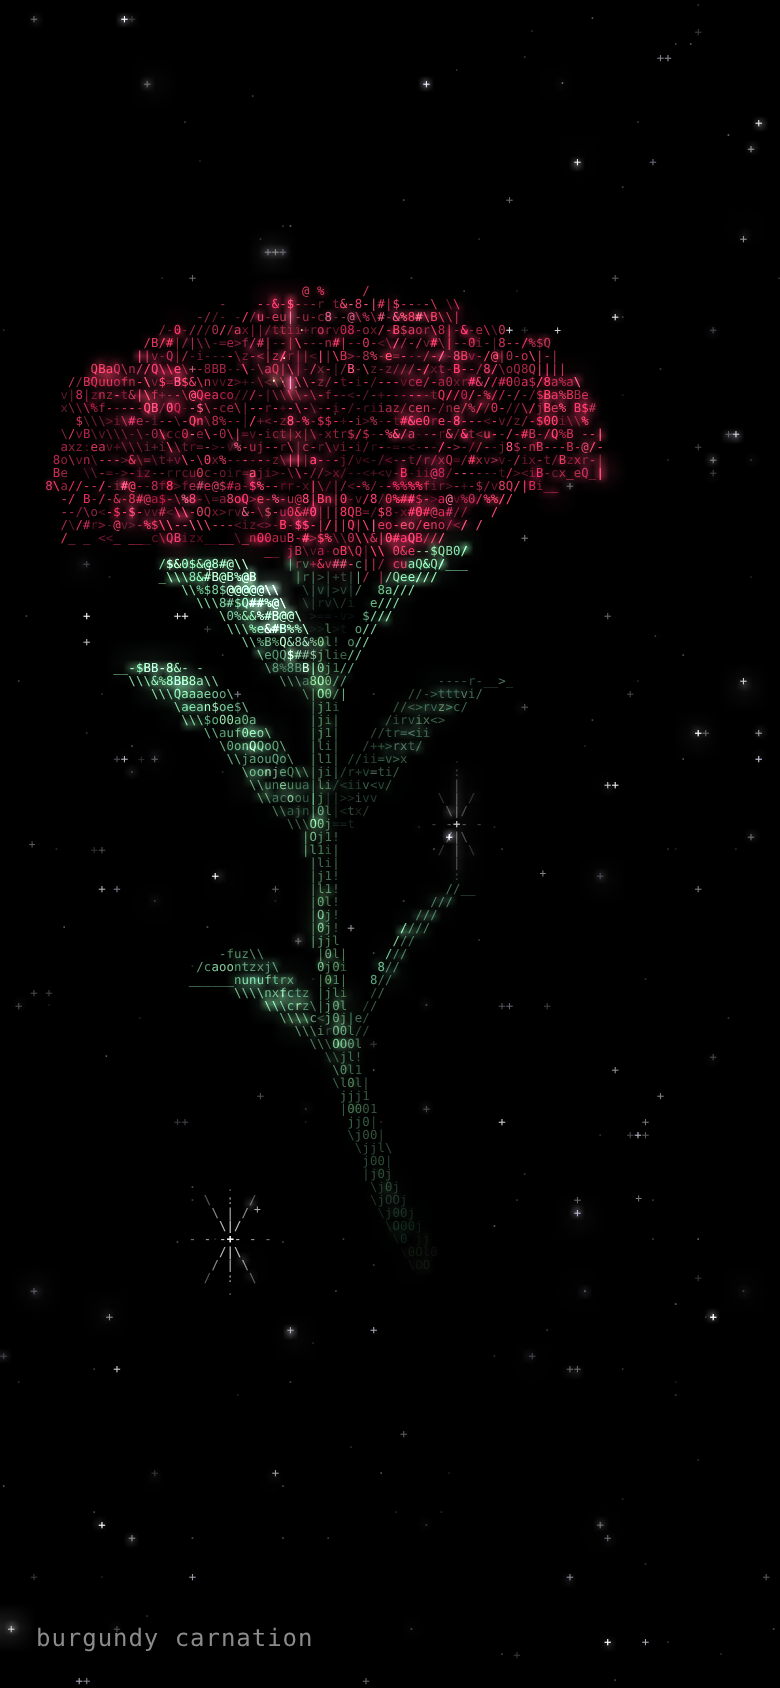
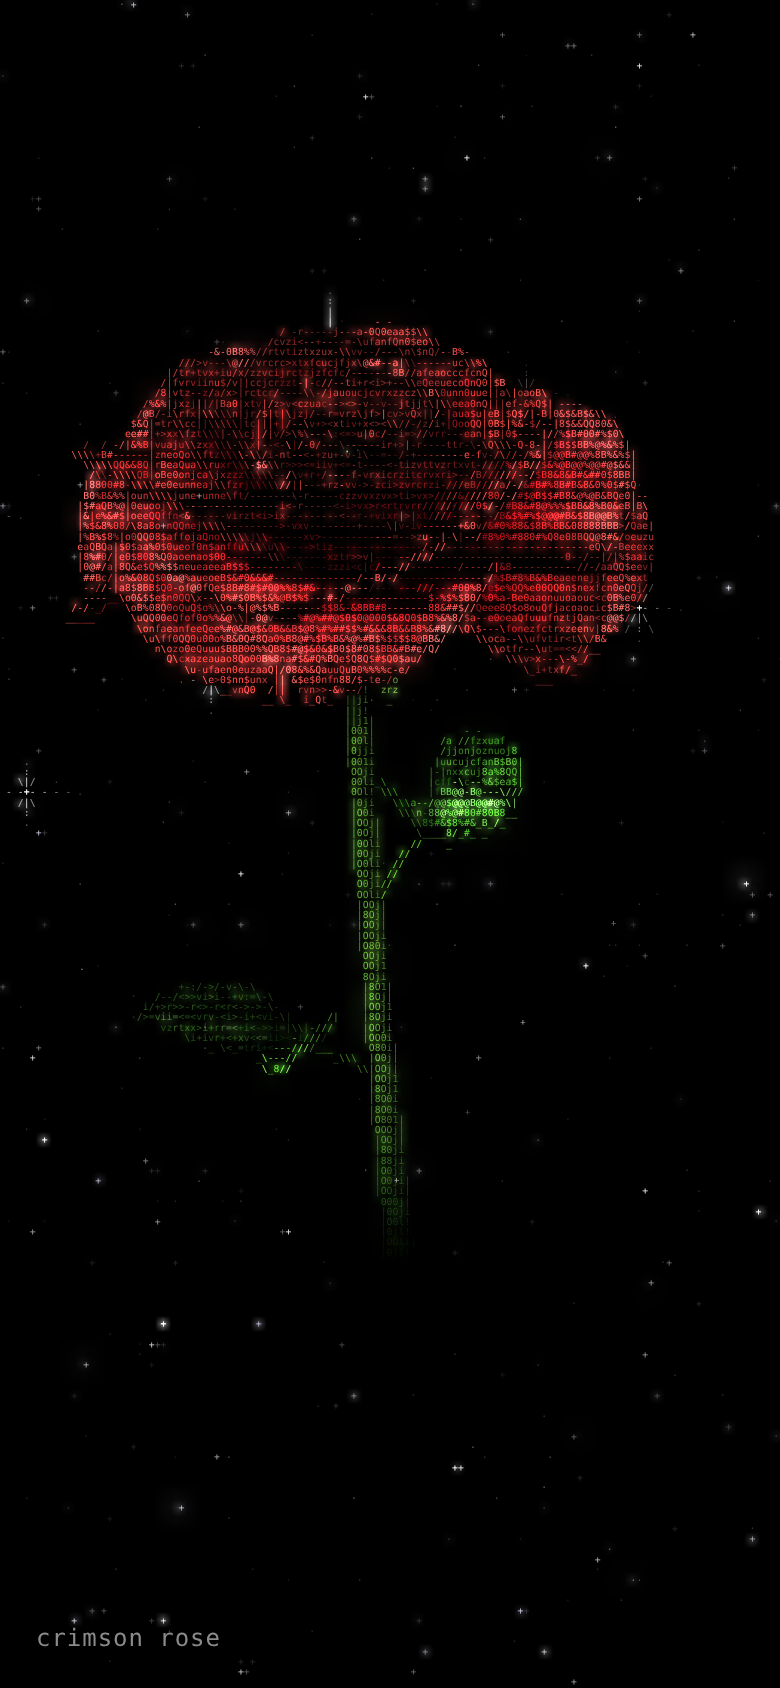
HD grid, petal overlap outlines and crevice shading, green-only stems and leaves, more flares, faster star flashes

diff --git a/bloom.js b/bloom.js
@@ -346,16 +346,11 @@ function makeGenome(seed) {
   }
 
   // greens
-  const gh = type === 'lotus' ? R.range(140, 160) : type === 'carnation' || type === 'iris' ? R.range(140, 165) : (type === 'tulip' ? R.range(105, 125) : R.range(95, 135));
-  const gs = type === 'tulip' || type === 'carnation' ? .55 : type === 'iris' ? .7 : type === 'poppy' ? .75 : 1;
+  const gh = R.range(105, 128), gs = 1;
   G.green = {
     dark: hsv(gh + 5, .85 * gs, .26), body: hsv(gh, .78 * gs, .68), light: hsv(gh - 12, .55 * gs, .95),
     stem: hsv(gh - 8, .72 * gs, .74), vein: hsv(gh - 15, .45 * gs, 1),
   };
-  if (type === 'magnolia' || (type === 'hibiscus' && R.chance(.6))) {
-    const bh = R.range(18, 30);
-    G.stemPal = { dark: hsv(bh, .6, .2), stem: hsv(bh, .45, .45), light: hsv(bh + 8, .3, .65) };
-  }
   G.sepalPal = { base: G.green.dark, body: G.green.body, tip: G.green.light, edge: G.green.light, edgeAmt: .2, edgeStart: .8, spot: G.green.dark };
 
   // head orientation and stem
@@ -371,14 +366,6 @@ function makeGenome(seed) {
     P0: [0, 0, 0], P1: [R.range(-.3, .3), H * R.range(.25, .45), R.range(-.2, .2)], P2: sub(P3, mul(up, H * R.range(.22, .36))), P3,
   };
   G.pivot = [P3[0] * .5, 0, P3[2] * .5];
-  if (type === 'rose') {
-    const n = R.int(4, 8);
-    for (let i = 0; i < n; i++) G.thorns.push({ u: R.range(.1, .85), a: R.range(0, TAU), len: R.range(.04, .07) });
-  }
-  if (type === 'sunflower' || type === 'poppy') { // fine hairs along the stem
-    const n = type === 'sunflower' ? 70 : 50;
-    for (let i = 0; i < n; i++) G.thorns.push({ u: R.range(.05, .97), a: R.range(0, TAU), len: R.range(.012, .025), col: mixc(G.green.light, [.8, .85, .75], .5) });
-  }
   if (type === 'carnation') { // swollen nodes
     G.nodes = [R.range(.22, .3), R.range(.5, .58), R.range(.76, .82)];
   }
@@ -498,7 +485,7 @@ function push(x, y, z, nx, ny, nz, r, g, b, tx, ty, tz, order, edge, kind, h, si
   NP++;
 }
 
-const GMAX = 72 * 52;
+const GMAX = 100 * 72;
 const GP = new Float32Array(GMAX * 3), GC = new Float32Array(GMAX * 3), GO = new Float32Array(GMAX);
 const GK = new Uint8Array(GMAX), GN = new Float32Array(GMAX * 3), GT = new Float32Array(GMAX * 3);
 
@@ -549,15 +536,15 @@ function emitCurve(fn, n, color, o0, o1, kind, id, gloss = .2) {
 }
 
 // ---------------------------------------------------------------- petals
-const SR = new Float32Array(96), SY = new Float32Array(96), SPh = new Float32Array(96);
+const SR = new Float32Array(112), SY = new Float32Array(112), SPh = new Float32Array(112);
 // per-column scratch for the petal builder
-const CV = new Float32Array(64), CAV = new Float32Array(64), CNOTCH = new Float32Array(64), CFR = new Float32Array(64);
-const CRS = new Float32Array(64), CRC = new Float32Array(64), CVEIN = new Float32Array(64), CSTS = new Float32Array(64), CSTC = new Float32Array(64);
-const CBL = new Float32Array(64), CBR = new Float32Array(64), CCS = new Float32Array(64), CCC = new Float32Array(64);
+const CV = new Float32Array(80), CAV = new Float32Array(80), CNOTCH = new Float32Array(80), CFR = new Float32Array(80);
+const CRS = new Float32Array(80), CRC = new Float32Array(80), CVEIN = new Float32Array(80), CSTS = new Float32Array(80), CSTC = new Float32Array(80);
+const CBL = new Float32Array(80), CBR = new Float32Array(80), CCS = new Float32Array(80), CCC = new Float32Array(80);
 function emitPetal(P, open, theta, M, T, pal, orderBase, orderSpan, headH, id, dens, lenMul) {
   const len = P.len * lenMul, W = P.W * lenMul;
-  const nu = clamp(Math.ceil(len * dens * 1.45) + 4, 6, 70) | 0;
-  let nv = clamp(Math.ceil(2 * W * dens * 1.35) + 3, 5, 51) | 0; if (nv % 2 === 0) nv++;
+  const nu = clamp(Math.ceil(len * dens * 1.5) + 4, 6, 96) | 0;
+  let nv = clamp(Math.ceil(2 * W * dens * 1.4) + 3, 5, 71) | 0; if (nv % 2 === 0) nv++;
   const ds = len / (nu - 1);
   let r = P.r0, y = P.y0;
   for (let i = 0; i < nu; i++) {
@@ -571,7 +558,7 @@ function emitPetal(P, open, theta, M, T, pal, orderBase, orderSpan, headH, id, d
   const ct = Math.cos(theta), st = Math.sin(theta);
   if (P.pal) pal = P.pal;
   const { base, body, tip, edge, edgeAmt, edgeStart, spot } = pal;
-  const sph = hash1(id * 3 + 1) * 6;
+  const sph = hash1(id * 3 + 1) * 6, tone = .9 + .2 * hash1(id * 5 + 2);
   const reshape = P.notch > 0 || P.fringe > 0;
   const ruffleK = P.ruffle * W, crinkK = P.crinkle * W * .045;
   const stripe = pal.stripe, blotch = P.blotch ? pal.blotch : null, beardC = P.beard ? P.beardC : null;
@@ -653,6 +640,7 @@ function emitPetal(P, open, theta, M, T, pal, orderBase, orderSpan, headH, id, d
       if (P.spots && u > .12 && u < .62 && av < .75 && hash1(id * 131 + i * 977 + j * 31) < .09 * P.spots) {
         cr = spot[0]; cg = spot[1]; cb = spot[2]; mm = 1;
       } else if (!kind && u > .35 && hash1(id * 53 + i * 613 + j * 7) < .0012) kind = 3; // dew drop
+      mm *= tone;
       GC[k] = cr * mm; GC[k + 1] = cg * mm; GC[k + 2] = cb * mm;
       const oy = ly / headH;
       GO[m] = orderBase + orderSpan * (oy < 0 ? 0 : oy > 1 ? 1 : oy);
@@ -723,8 +711,8 @@ function emitBlade(origin, dOut, len, W, elev, droop, fold, serr, teeth, shape, 
   const sc = lerp(.3, 1, open);
   len *= sc; W *= sc * lerp(.4, 1, open);
   fold = lerp(1.6, fold, open);
-  const nu = clamp(Math.ceil(len * dens * 1.3) + 4, 6, 64) | 0;
-  let nv = clamp(Math.ceil(2 * W * dens * 1.2) + 3, 5, 48) | 0; if (nv % 2 === 0) nv++;
+  const nu = clamp(Math.ceil(len * dens * 1.35) + 4, 6, 96) | 0;
+  let nv = clamp(Math.ceil(2 * W * dens * 1.25) + 3, 5, 71) | 0; if (nv % 2 === 0) nv++;
   const up = [0, 1, 0], lat = norm([dOut[2], 0, -dOut[0]]);
   const ds = len / (nu - 1);
   let p = origin.slice(), m = 0;
@@ -932,7 +920,7 @@ function makeSky(seed) {
     if (c < 0 || r < 0 || c >= cols || r >= rows) return;
     const id = r * cols + c; if (used.has(id)) return; used.add(id);
     stars.push({ c, r, k, a: k === 0 ? R.range(.18, .4) : k === 1 ? R.range(.5, .9) : 1,
-      sp: R.range(.9, 4.2), ph: R.range(0, TAU), cool: R.range(0, 1) });
+      sp: k === 2 ? R.range(.9, 4.2) : R.range(3, 7.5), ph: R.range(0, TAU), cool: R.range(0, 1) });
   };
   const nFaint = Math.round(n * .011), nPlus = Math.round(n * .0055), nBright = Math.round(n * .0022);
   for (let i = 0; i < nFaint; i++) put(R.int(0, cols - 1), R.int(0, rows - 1), 0);
@@ -960,6 +948,7 @@ const ANTH = '@0o';
 const STEMR = ':;!i1lj0O8%Q$8B';
 const BEARD = "\";:'^~,";
 const PITCH = .2;
+const CONTOUR = .07;
 const SPARK = ['+', '+', '.', '·', "'", '+'];
 const FONT = 'ui-monospace, "SF Mono", "JetBrains Mono", Menlo, Consolas, "DejaVu Sans Mono", "Liberation Mono", monospace';
 const D = 7;            // camera distance in world units
@@ -978,14 +967,14 @@ const fit = { R: 1, ymin: 0, ymax: 3 };
 function newSeed() { return Math.floor(Math.random() * 2176782336).toString(36).padStart(6, '0'); }
 
 function resize() {
-  const w = window.innerWidth, h = window.innerHeight, dpr = Math.min(window.devicePixelRatio || 1, w * h > 900000 ? 1.5 : 2);
+  const w = window.innerWidth, h = window.innerHeight, dpr = Math.min(window.devicePixelRatio || 1, w * h > 900000 ? 2 : 3);
   Object.assign(view, { w, h, dpr });
   for (const c of [canvas, fg]) { c.width = Math.round(w * dpr); c.height = Math.round(h * dpr); }
   canvas.style.width = w + 'px'; canvas.style.height = h + 'px';
   g1.width = Math.max(1, Math.round(w / 4)); g1.height = Math.max(1, Math.round(h / 4));
   g2.width = Math.max(1, Math.round(w / 12)); g2.height = Math.max(1, Math.round(h / 12));
   const portrait = h > w;
-  view.cellH = clamp(h / (portrait ? 130 : 102), 6, 15) / view.detail;
+  view.cellH = clamp(h / (portrait ? 165 : 128), 4.6, 13) / view.detail;
   view.cellW = view.cellH / 1.72;
   view.cols = Math.ceil(w / view.cellW); view.rows = Math.ceil(h / view.cellH);
   view.font = Math.min(view.cellW / .6, view.cellH * .95);
@@ -1109,7 +1098,7 @@ function frame(now) {
   }
   falls = falls.filter(f => f.p[1] > fit.ymin - .4);
   // keep the point count near the budget: dense flowers get thinner sampling, sparse ones full detail
-  const budget = 55000;
+  const budget = 90000;
   if (NP > budget) densScale = Math.max(.55, densScale * Math.sqrt(budget / NP) * .98 + densScale * .02);
   else if (NP < budget * .7) densScale = Math.min(1, densScale * 1.02);
 
@@ -1166,7 +1155,17 @@ function frame(now) {
     const side = BUF[o + 16];
     if (side !== 0 && side * facing < 0) { r *= .78; g *= .78; b *= .8; }
     const depth = .72 + .28 * clamp((zb[idx] + zr) / (2 * zr));
-    const k = (.36 + 1.0 * lum) * depth;
+    // look at the neighbours in the depth buffer
+    const cc0 = idx % cols, z0 = zb[idx];
+    let ao = 1, gx = 0, gy = 0;
+    if (BUF[o + 14] !== 5) {
+      const nL = cc0 > 0 && win[idx - 1] >= 0 ? zb[idx - 1] : null, nR = cc0 < cols - 1 && win[idx + 1] >= 0 ? zb[idx + 1] : null;
+      const nU = idx >= cols && win[idx - cols] >= 0 ? zb[idx - cols] : null, nD = idx + cols < cols * rows && win[idx + cols] >= 0 ? zb[idx + cols] : null;
+      for (const nzv of [nL, nR, nU, nD]) if (nzv !== null && nzv > z0 + .05) ao *= .84; // tucked under a nearer petal
+      if (nL !== null && nL < z0 - CONTOUR) gx -= 1; if (nR !== null && nR < z0 - CONTOUR) gx += 1;
+      if (nU !== null && nU < z0 - CONTOUR) gy -= 1; if (nD !== null && nD < z0 - CONTOUR) gy += 1;
+    }
+    const k = (.36 + 1.0 * lum) * depth * ao;
     r = r * k + r * rim * .6 + spec; g = g * k + g * rim * .6 + spec; b = b * k + b * rim * .6 + spec;
     const h = BUF[o + 15], kind = BUF[o + 14], ord = BUF[o + 12];
     let ch;
@@ -1184,6 +1183,7 @@ function frame(now) {
         if (model) { tx = V[0] * a + V[1] * bb + V[2] * c; ty = V[3] * a + V[4] * bb + V[5] * c; } else { tx = a; ty = bb; }
         isStroke = true;
       } else if (nz < (kind === 5 ? .5 : .24)) { tx = -ny; ty = nx; isStroke = true; }
+      else if (gx !== 0 || gy !== 0) { tx = -gy; ty = -gx; isStroke = true; } // this petal overlaps one behind it
       if (isStroke) {
         const dx = tx, dy = -ty, ang = Math.atan2(Math.abs(dy) * 1.0, Math.abs(dx) * 1.0);
         if (ang < .42) ch = (idx + cols < cols * rows && win[idx + cols] < 0) ? '_' : '-';
@@ -1266,7 +1266,7 @@ function drawSky(c, t, A, dt) {
   for (const s of sky.stars) {
     if (!cellFree(s.c, s.r)) continue;
     const tw = .5 + .5 * Math.sin(t * s.sp + s.ph);
-    const a = A * s.a * (s.k === 0 ? .6 + .4 * tw : .35 + .65 * tw * tw);
+    const a = A * s.a * (s.k === 0 ? .45 + .55 * tw * tw : s.k === 1 ? .2 + .8 * tw * tw * tw : .35 + .65 * tw * tw);
     if (a < .03) continue;
     const g = (225 + 30 * (1 - s.cool)) | 0;
     const x = s.c * cellW, y = s.r * cellH;
@@ -1280,10 +1280,10 @@ function drawSky(c, t, A, dt) {
   if (!paused) {
     sky.nextFlare -= dt;
     if (sky.nextFlare <= 0 && skyLevel > .05) {
-      sky.nextFlare = sky.R.range(.15, .5) / Math.max(.25, skyLevel);
-      if (sky.flares.length < 5) {
+      sky.nextFlare = sky.R.range(.04, .16) / Math.max(.25, skyLevel);
+      if (sky.flares.length < 10) {
         const top = project([G.pivot[0], fit.ymax, G.pivot[2]]), bot = project([G.pivot[0], fit.ymin, G.pivot[2]]);
-        const rad = fit.R * view.S * 1.35;
+        const rad = fit.R * view.S * 1.6;
         const x = view.cx + (sky.R.next() - .5) * 2 * rad, y = lerp(top[1] - cellH * 4, bot[1], sky.R.next());
         sky.flares.push({ c: Math.floor(x / cellW), r: Math.floor(y / cellH), life: 0, max: sky.R.range(.5, 1),
           L: sky.R.int(3, 6), D: sky.R.int(1, 3), H: sky.R.int(3, 5) });

diff --git a/README.md b/README.md
@@ -39,7 +39,7 @@ Extra URL options are `hud=0` (hide the name) and `glow=0`.
 
 | Species | What changes from seed to seed |
 | --- | --- |
-| Rose | 6 to 9 spiral layers, curled-back outer petals, a tight center, thorns, compound serrated leaves |
+| Rose | 6 to 9 spiral layers, curled-back outer petals, a tight center, compound serrated leaves |
 | Tulip | Cup or lily-flowered pointed tips, long blade leaves from the base |
 | Lily | 6 recurved tepals, speckles, long stamens with anthers, a pistil |
 | Daisy | 14 to 28 ray petals in 1 or 2 rows, notched or fringed tips, a domed disk of florets |
@@ -47,22 +47,22 @@ Extra URL options are `hud=0` (hide the name) and `glow=0`.
 | Peony | 9 to 13 ruffled layers, sometimes with a stamen ring |
 | Lotus | Boat-shaped pointed petals, a seed pod, round pad leaves |
 | Anemone / camellia | Broad petals with a dark disk and stamen ring, or a gold stamen tuft |
-| Sunflower | 21 to 34 pointed rays in two rows, a big dark disk with a gold floret ring, heart-shaped leaves, a thick hairy stem |
+| Sunflower | 21 to 34 pointed rays in two rows, a big dark disk with a gold floret ring, heart-shaped leaves, a thick stem |
 | Cosmos | 8 or 9 broad petals with serrated tips, a small golden disk, thread-fine feathery leaves |
-| Hibiscus | 5 ruffled crinkled petals with a dark eye and radiating streaks, a long stamen column with pollen and 5 stigma pads, sometimes a woody stem |
+| Hibiscus | 5 ruffled crinkled petals with a dark eye and radiating streaks, a long stamen column with pollen and 5 stigma pads |
 | Iris | 3 upright standards and 3 drooping falls with a fuzzy beard, sometimes two-toned, sword leaves |
-| Poppy | 4 crumpled tissue-paper petals with a dark blotch, a seed pod with radiating rays, a ring of dark stamens, a hairy stem |
+| Poppy | 4 crumpled tissue-paper petals with a dark blotch, a seed pod with radiating rays, a ring of dark stamens |
 | Carnation | 7 to 10 layers of fringed ruffled petals, a tubular calyx, grass-like leaf pairs at swollen nodes |
-| Magnolia | 9 spoon-shaped tepals in 3 whorls, a tall cone center, a woody stem |
+| Magnolia | 9 spoon-shaped tepals in 3 whorls, a tall cone center |
 
 Colors come from 32 palette families (crimson, midnight, ocean, saucer, peppermint, flame, autumn, chartreuse and more), each with a random hue shift. Some families add streaks along the veins, and light flowers get a red eye where the species has one.
 
 ## How it works
 
 1. **Genome** : a seeded RNG builds a description of the plant. This covers the species, petal layers (count, length, width, opening angles, cup, curl, ruffle, tip shape, timing), centers, sepals, leaves, the stem curve, head tilt and the sky.
-2. **Geometry** : on every frame each petal is rebuilt as a parametric surface. The spine is integrated from an angle profile that blends between the closed bud and the open flower, so blooming is a real shape change and not a scale. Leaves, stem (a Bézier tube), stamens and disks are made the same way. Petals can carry veins, crinkles, ruffles, fringes, blotches, stripes, beards, speckles and dew. Thin petals and leaves glow when the light is behind them. An adaptive point budget keeps very full flowers smooth.
+2. **Geometry** : on every frame each petal is rebuilt as a parametric surface. The spine is integrated from an angle profile that blends between the closed bud and the open flower, so blooming is a real shape change and not a scale. Leaves, stem (a Bézier tube), stamens and disks are made the same way. Petals can carry veins, crinkles, ruffles, fringes, blotches, stripes, beards, speckles and dew. Thin petals and leaves glow when the light is behind them. Overlapping petals get outlines and soft shading in the gaps between them, and each petal has its own slight tone. Stems and leaves are always plain green. An adaptive point budget keeps very full flowers smooth.
 3. **Rendering** : surface points are projected into a character grid with a z-buffer. Lit surfaces get letters from a density ramp. Petal rims and silhouettes get `/ \ | _ -` based on the edge direction on screen. A two-pass downscaled copy of the frame adds the glow.
-4. **Sky** : stars sit on the same character grid as the flower as `.` and `+` glyphs, some in pairs, each twinkling at its own rate. The sky stays black while the plant forms and brightens step by step with the bloom. Flare stars flash up around the plant for half a second to a second, built only from characters: a `|` ray, `\` and `/` diagonals, a dashed `-` arm and a `+` core.
+4. **Sky** : stars sit on the same character grid as the flower as `.` and `+` glyphs, some in pairs, each twinkling at its own rate. The sky stays black while the plant forms and brightens step by step with the bloom. Up to 10 flare stars at a time flash up around the plant for half a second to a second, built only from characters: a `|` ray, `\` and `/` diagonals, a dashed `-` arm and a `+` core.
 5. **Timeline** : faint `+` dust marks where the plant will appear, and a drawing light climbs the stem with sparks. Leaves unfold, the bud forms and starts opening in one continuous motion, outer layers first, and then the flower turns and breathes while pollen drifts and the odd petal falls.
 
 ## License
